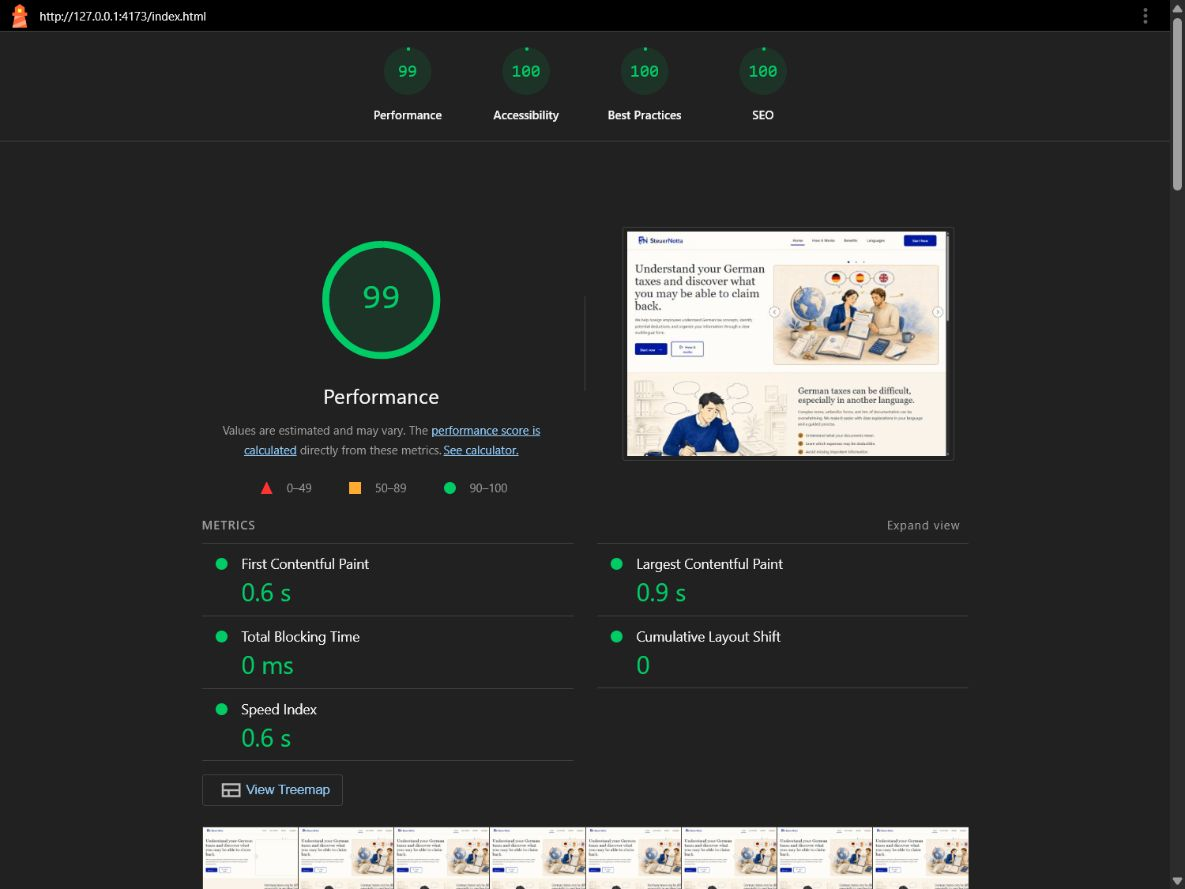
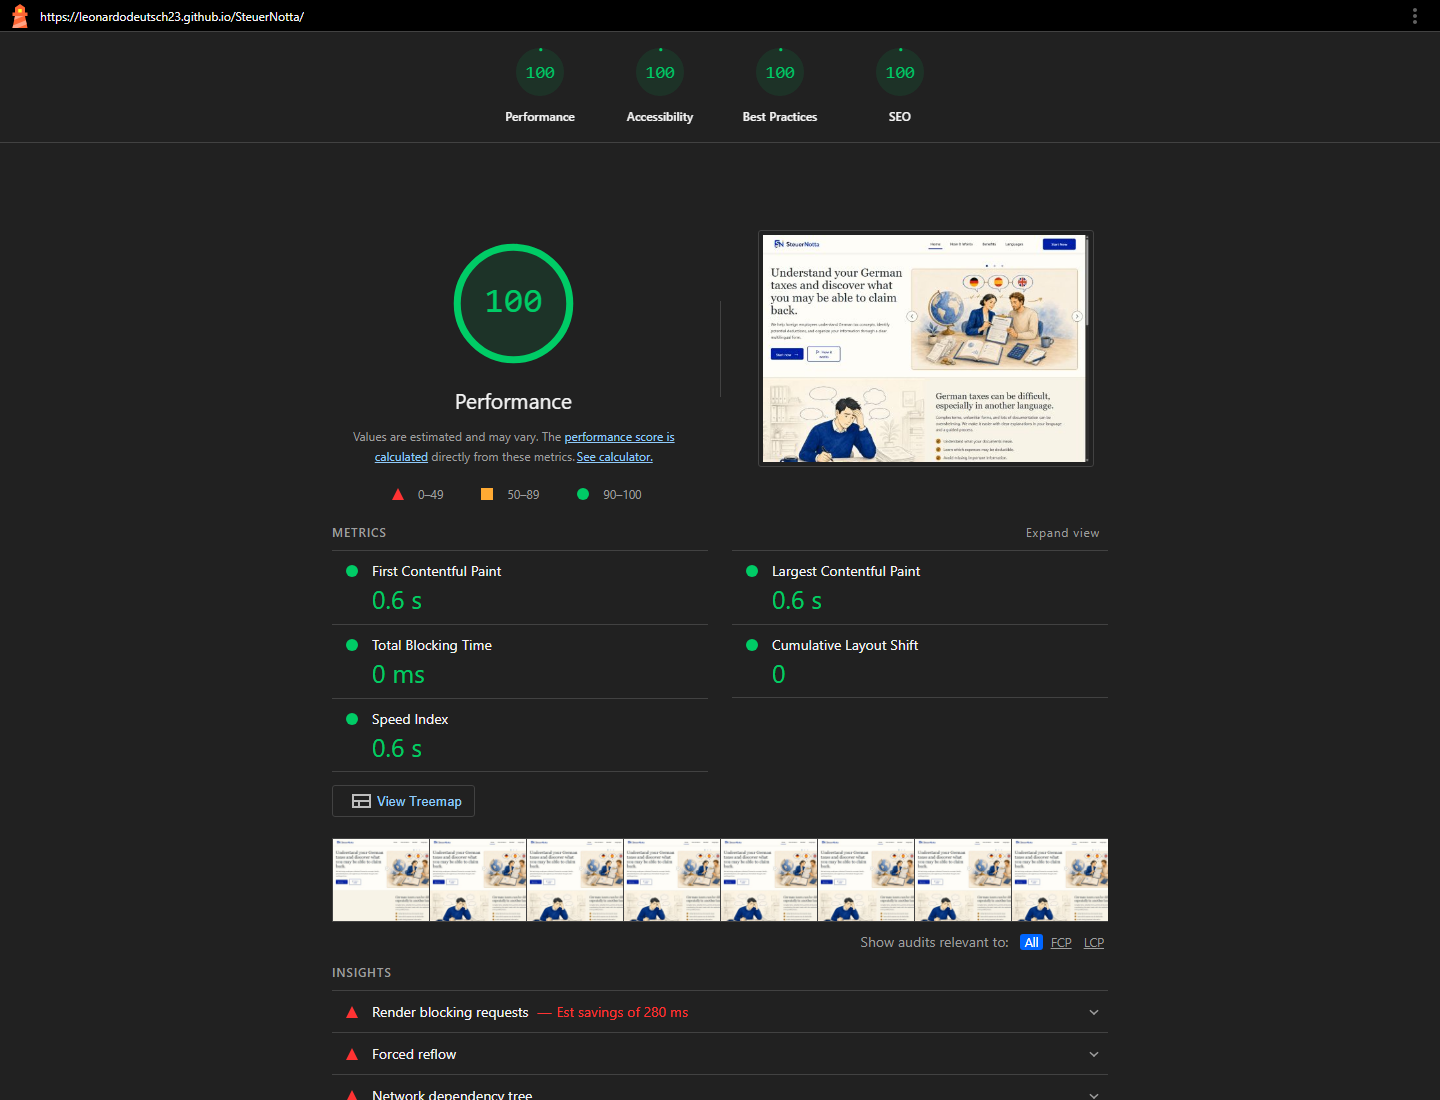
Document deployed validation and testing evidence

diff --git a/TESTING.md b/TESTING.md
@@ -25,15 +25,17 @@ The forms use native HTML constraints but do not save, upload or transmit data.
 
 | Environment | Purpose |
 |---|---|
-| Local Python static server on Windows 11 | Functional, visual and automated checks before deployment |
-| Chrome DevTools responsive mode | Mobile, tablet and desktop layout inspection |
-| GitHub Pages | Final deployment and route/asset verification |
+| Local Python static server on Windows 11 | Functional and visual checks before deployment |
+| Google Chrome 150.0.7871.187 on Windows 11 | Responsive, navigation and form checks |
+| Microsoft Edge 150.0.4078.105 on Windows 11 | Independent Chromium-browser layout check |
+| GitHub Pages | Route, asset, W3C and Lighthouse verification of the published site |
 | W3C Nu HTML Checker | HTML conformance |
 | W3C CSS Validation Service | CSS conformance |
-| Lighthouse 13.4.1 | Performance, accessibility, best-practices and SEO audits |
+| Lighthouse 13.0.1 | Performance, accessibility, best-practices and SEO audits |
 
 The primary responsive reference widths were `375px`, `768px` and `1440px`. The page was also
-resized between those values to find breakpoint or overflow problems.
+resized between those values to find breakpoint or overflow problems. The evidence in this document
+was refreshed on 29 July 2026.
 
 ## User story testing
 
@@ -45,7 +47,7 @@ resized between those values to find breakpoint or overflow problems.
 | See the intended benefits | Open Benefits | Four benefit cards are visible and adapt to the viewport | Pass |
 | Choose a language | Select each language card | The corresponding internal form opens in the same tab | Pass |
 | Receive the same form structure in every language | Compare all three form routes | Section order, control IDs, names, types and option values match | Pass |
-| Know what happens to entered information | Read the form warning and final section | The user is told to use fictitious data and that nothing is saved or transmitted | Pass |
+| Know what happens to entered information | Read the final review section | The user is told that nothing is saved or transmitted | Pass |
 | Use the site with a keyboard | Tab through navigation, carousel and form controls | Interactive elements receive visible focus in a logical order | Pass |
 | Review or submit information | Inspect the final actions | Reset and review buttons remain disabled because processing is not implemented | Pass |
 
@@ -84,7 +86,7 @@ checks confirmed that the same constraints are present on the English/German and
 | Gross wages | Required empty value is invalid | `-1` is invalid | `1000.50` is valid | Pass |
 | Work expenses | Empty optional value is valid | `-1` is invalid | `0` is valid | Pass |
 | Special expenses | Empty optional value is valid | `-1` is invalid | `0.01` is valid | Pass |
-| Documents | Empty optional value is valid | Browser picker is restricted to the listed formats | Multiple PDF/JPG/JPEG/PNG files may be selected locally | Pass |
+| Documents | Empty optional value is valid | The `accept` attribute suggests the listed formats to the browser picker | Multiple PDF/JPG/JPEG/PNG files may be selected locally | Pass |
 | Fictitious-data confirmation | Unchecked required box is invalid | Not applicable | Checked box is valid | Pass |
 | Notes | Empty optional value is valid | Typed input is limited by `maxlength="500"` | Text within 500 characters is valid | Pass |
 
@@ -98,6 +100,15 @@ Additional checks:
 - the Reset and Review buttons are visibly and programmatically disabled.
 
 Native validation messages are intentionally browser-provided, so their exact wording can vary.
+The following captures record representative states; the corresponding browser validity properties
+were also inspected during the test:
+
+| Evidence | Observed result |
+|---|---|
+| [Required selects left on their default option](docs/testing/evidence/forms/required-controls-empty.png) | Both controls reported `valueMissing: true` |
+| [Three-digit tax ID](docs/testing/evidence/forms/tax-id-pattern-invalid.png) | `patternMismatch: true`; the 11-digit helper remains visible |
+| [Negative gross-wage value](docs/testing/evidence/forms/negative-amount-invalid.png) | `rangeUnderflow: true` because `min="0"` |
+| [Document selector](docs/testing/evidence/forms/file-input-accept.png) | `multiple` is enabled and `accept=".pdf,.jpg,.jpeg,.png"` is present |
 
 ## Multilingual parity
 
@@ -136,11 +147,38 @@ option values. Visible supporting copy changes by language, while the data struc
 | 768px | Two-column field layout, aligned controls and centred unpaired items | Pass |
 | 1440px | Up to three columns, consistent spacing and footer spanning the viewport | Pass |
 
-![Form at 375px](docs/testing/evidence/form-es-mobile-375.png)
+The three language routes were checked independently because translated labels can wrap at
+different points:
 
-![Form at 768px](docs/testing/evidence/form-es-tablet-768.png)
+| Route | 375px | 768px | 1440px |
+|---|---|---|---|
+| Spanish/German | Pass | Pass | Pass |
+| English/German | Pass | Pass | Pass |
+| German | Pass | Pass | Pass |
 
-![Form at 1440px](docs/testing/evidence/form-es-desktop-1440.png)
+#### Spanish/German form
+
+![Spanish/German form at 375px](docs/testing/evidence/form-es-mobile-375.png)
+
+![Spanish/German form at 768px](docs/testing/evidence/form-es-tablet-768.png)
+
+![Spanish/German form at 1440px](docs/testing/evidence/form-es-desktop-1440.png)
+
+#### English/German form
+
+![English/German form at 375px](docs/testing/evidence/form-en-mobile-375.png)
+
+![English/German form at 768px](docs/testing/evidence/form-en-tablet-768.png)
+
+![English/German form at 1440px](docs/testing/evidence/form-en-desktop-1440.png)
+
+#### German form
+
+![German form at 375px](docs/testing/evidence/form-de-mobile-375.png)
+
+![German form at 768px](docs/testing/evidence/form-de-tablet-768.png)
+
+![German form at 1440px](docs/testing/evidence/form-de-desktop-1440.png)
 
 At all three widths, the measured document width did not exceed the viewport width. No horizontal
 scrollbar was produced.
@@ -163,15 +201,16 @@ scrollbar was produced.
 
 ## Browser compatibility
 
-| Browser | Scope | Result |
-|---|---|---|
-| Google Chrome | Full responsive, navigation, form and Lighthouse testing | Pass |
-| Microsoft Edge | Manual layout, navigation and form-control review | Pass |
-| Mozilla Firefox | Manual layout and native form-control review | Pass |
-| Safari | Manual review on the deployed responsive site | Pass |
+| Browser | Version/platform | Scope | Result | Evidence |
+|---|---|---|---|---|
+| Google Chrome | 150.0.7871.187 / Windows 11 | Responsive layout, navigation, form constraints and deployed-site rendering | Pass | [Screenshot](docs/testing/evidence/browsers/chrome-home-desktop.png) |
+| Microsoft Edge | 150.0.4078.105 / Windows 11 | Deployed homepage layout, navigation and asset rendering | Pass | [Screenshot](docs/testing/evidence/browsers/edge-home-desktop.png) |
+| Mozilla Firefox | Manual project QA; version not retained | Layout and native form-control review reported by the tester | Pass | Tester-confirmed |
+| Safari/iOS | Manual deployed-site QA; version not retained | Responsive layout and touch navigation reported by the tester | Pass | Tester-confirmed |
 
 Browser-native date, number, select and file controls may look slightly different, but the content
-and constraints remain available.
+and constraints remain available. The two reproducible Windows-browser captures are retained in the
+repository rather than presenting the Firefox and Safari checks as automated results.
 
 ## Code validation
 
@@ -179,12 +218,12 @@ and constraints remain available.
 
 All current HTML pages were submitted to the official W3C Nu HTML Checker.
 
-| File | Errors | Warnings | Result |
-|---|---:|---:|---|
-| `index.html` | 0 | 0 | Pass |
-| `form-es-de.html` | 0 | 0 | Pass |
-| `form-en-de.html` | 0 | 0 | Pass |
-| `form-de-de.html` | 0 | 0 | Pass |
+| File | Errors | Warnings | Result | Evidence |
+|---|---:|---:|---|---|
+| `index.html` | 0 | 0 | Pass | [Screenshot](docs/testing/evidence/validation/html-index-w3c.png) |
+| `form-es-de.html` | 0 | 0 | Pass | [Screenshot](docs/testing/evidence/validation/html-form-es-w3c.png) |
+| `form-en-de.html` | 0 | 0 | Pass | [Screenshot](docs/testing/evidence/validation/html-form-en-w3c.png) |
+| `form-de-de.html` | 0 | 0 | Pass | [Screenshot](docs/testing/evidence/validation/html-form-de-w3c.png) |
 
 The deployed documents can be rechecked with these links:
 
@@ -200,10 +239,10 @@ Both project stylesheets are checked with the official W3C CSS Validation Servic
 - [Validate `style.css`](https://jigsaw.w3.org/css-validator/validator?uri=https%3A%2F%2Fleonardodeutsch23.github.io%2FSteuerNotta%2Fassets%2Fcss%2Fstyle.css&profile=css3svg)
 - [Validate `styleform.css`](https://jigsaw.w3.org/css-validator/validator?uri=https%3A%2F%2Fleonardodeutsch23.github.io%2FSteuerNotta%2Fassets%2Fcss%2Fstyleform.css&profile=css3svg)
 
-| File | Errors | Compatibility/static-analysis warnings | Result |
-|---|---:|---:|---|
-| `assets/css/style.css` | 0 | 11 | Pass |
-| `assets/css/styleform.css` | 0 | 6 | Pass |
+| File | Errors | Compatibility/static-analysis warnings | Result | Evidence |
+|---|---:|---:|---|---|
+| `assets/css/style.css` | 0 | 14 | Pass | [Screenshot](docs/testing/evidence/validation/css-style-w3c.png) |
+| `assets/css/styleform.css` | 0 | 8 | Pass | [Screenshot](docs/testing/evidence/validation/css-styleform-w3c.png) |
 
 The non-blocking warnings relate to custom properties and modern CSS values that the validator
 cannot resolve statically; they do not identify invalid declarations. They are recorded here rather
@@ -213,14 +252,20 @@ The URI checks are repeated after deployment so that the validator reads the exa
 
 ## Lighthouse
 
-Lighthouse was run against the local static-server build in mobile and desktop modes.
+Lighthouse 13.0.1 was run on 29 July 2026 against the published GitHub Pages URLs in mobile and
+desktop modes. The URL visible at the top of each capture confirms that the deployed site, rather
+than a localhost copy, was audited.
 
-| Page and mode | Performance | Accessibility | Best practices | SEO |
-|---|---:|---:|---:|---:|
-| Homepage — mobile | 84 | 100 | 100 | 100 |
-| Homepage — desktop | 99 | 100 | 100 | 100 |
-| Spanish/German form — mobile | 96 | 100 | 100 | 100 |
-| Spanish/German form — desktop | 100 | 100 | 100 | 100 |
+| Page and mode | Performance | Accessibility | Best practices | SEO | Evidence |
+|---|---:|---:|---:|---:|---|
+| Homepage — mobile | 92 | 100 | 100 | 100 | [Screenshot](docs/testing/evidence/lighthouse-home-mobile.png) |
+| Homepage — desktop | 100 | 100 | 100 | 100 | [Screenshot](docs/testing/evidence/lighthouse-home-desktop.png) |
+| Spanish/German form — mobile | 97 | 100 | 100 | 100 | [Screenshot](docs/testing/evidence/lighthouse-form-es-mobile.png) |
+| Spanish/German form — desktop | 100 | 100 | 100 | 100 | [Screenshot](docs/testing/evidence/lighthouse-form-es-desktop.png) |
+| English/German form — mobile | 97 | 100 | 100 | 100 | [Screenshot](docs/testing/evidence/lighthouse-form-en-mobile.png) |
+| English/German form — desktop | 100 | 100 | 100 | 100 | [Screenshot](docs/testing/evidence/lighthouse-form-en-desktop.png) |
+| German form — mobile | 96 | 100 | 100 | 100 | [Screenshot](docs/testing/evidence/lighthouse-form-de-mobile.png) |
+| German form — desktop | 100 | 100 | 100 | 100 | [Screenshot](docs/testing/evidence/lighthouse-form-de-desktop.png) |
 
 ![Homepage mobile Lighthouse result](docs/testing/evidence/lighthouse-home-mobile.png)
 
@@ -230,8 +275,9 @@ Lighthouse was run against the local static-server build in mobile and desktop m
 
 ![Form desktop Lighthouse result](docs/testing/evidence/lighthouse-form-es-desktop.png)
 
-The lower homepage mobile performance score is primarily associated with large local illustrations
-and render-blocking CSS. Accessibility, best-practices and SEO passed at 100 in every recorded run.
+The homepage mobile performance score remains the lowest result and is primarily associated with
+large illustrations and cache-lifetime opportunities. Accessibility, best-practices and SEO passed
+at 100 in every recorded run.
 
 ## Bugs fixed during testing
 
@@ -242,6 +288,7 @@ and render-blocking CSS. Accessibility, best-practices and SEO passed at 100 in 
 | Mobile menu remained open after navigation | Bootstrap collapse state was not changed by in-page links | Added the small adapted collapse script | Pass |
 | Active section could be incorrect | Scrollspy offset and section positions disagreed | Aligned navigation target/offset behaviour | Pass |
 | Tablet and desktop fields were uneven | Mixed content heights affected grid alignment | Applied shared grid and alignment rules | Pass |
+| Marital-status control sat below the tax-ID control | The helper note changed the available flex-column height | Scoped both controls to start directly below their labels | Pass |
 | Unpaired items stayed in the left column | Grid placement had no last-item exception | Centred unpaired tablet/desktop items | Pass |
 | Problem illustration cropped unpredictably | One image source was forced across dissimilar aspect ratios | Added viewport-specific picture sources | Pass |
 | Desktop navigation CTA extended too far right | Its responsive left margin was excessive | Reduced the responsive margin and remeasured | Pass |

diff --git a/README.md b/README.md
@@ -236,7 +236,7 @@ Implemented accessibility work includes:
 - Git and GitHub for version control, issues and project management.
 - GitHub Pages for deployment.
 - W3C Nu HTML Checker and W3C CSS Validation Service for code validation.
-- Lighthouse 13.4.1 for performance, accessibility, best-practices and SEO auditing.
+- Lighthouse 13.0.1 for performance, accessibility, best-practices and SEO auditing.
 
 ## Testing
 
@@ -253,8 +253,10 @@ Current headline results:
 | Form parity | 7 sections and 12 matching controls on each route |
 | Duplicate control IDs | 0 |
 | Responsive overflow | None at 375px, 768px or 1440px |
-| Lighthouse — Home mobile/desktop | 84 / 99 performance; 100 for all other categories |
-| Lighthouse — ES form mobile/desktop | 96 / 100 performance; 100 for all other categories |
+| Lighthouse — Home mobile/desktop | 92 / 100 performance; 100 for all other categories |
+| Lighthouse — ES form mobile/desktop | 97 / 100 performance; 100 for all other categories |
+| Lighthouse — EN form mobile/desktop | 97 / 100 performance; 100 for all other categories |
+| Lighthouse — DE form mobile/desktop | 96 / 100 performance; 100 for all other categories |
 | Internal links opening new tabs | None |
 | Connected form submission/reset actions | None |
 
@@ -268,6 +270,7 @@ Current headline results:
 | Fixed navbar covered section headings | Section scroll margins were added and tested. |
 | Mobile navigation stayed open after selecting a section | The collapsed menu is closed by the adapted inline script. |
 | Form fields and unpaired cards were misaligned at tablet widths | Shared grid and centring rules were added. |
+| The marital-status select sat below the paired tax-ID field | A scoped rule aligns both controls directly below their labels while preserving the helper note. |
 | Carousel and Problem images cropped inconsistently | Purpose-specific responsive image sources were supplied. |
 | Desktop navbar action could extend beyond the viewport | The responsive action gap was reduced and rechecked at 1440px. |
 | Internal form links opened unnecessary new tabs | `target="_blank"` was removed from all three language cards. |
